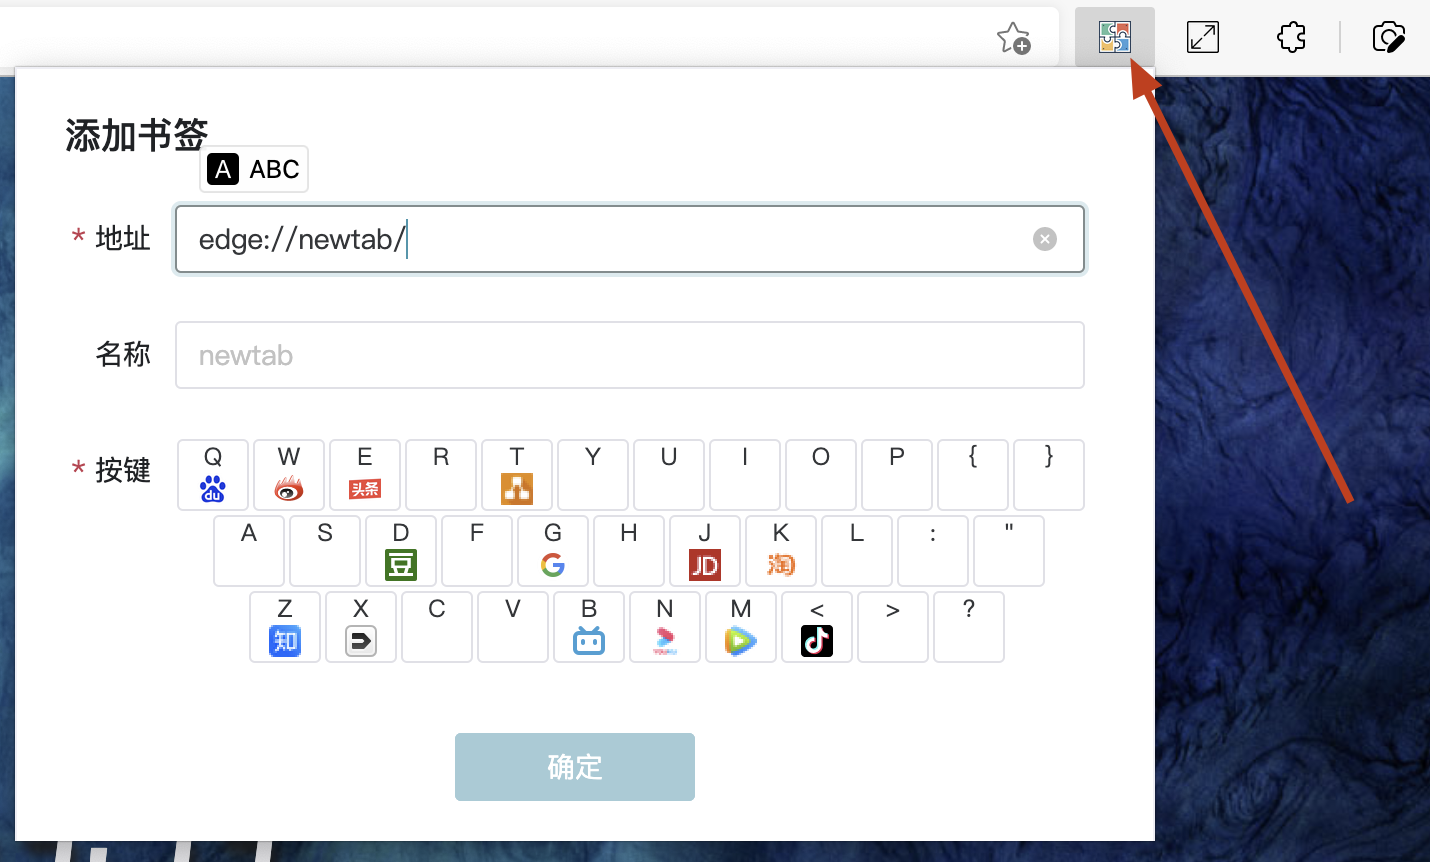
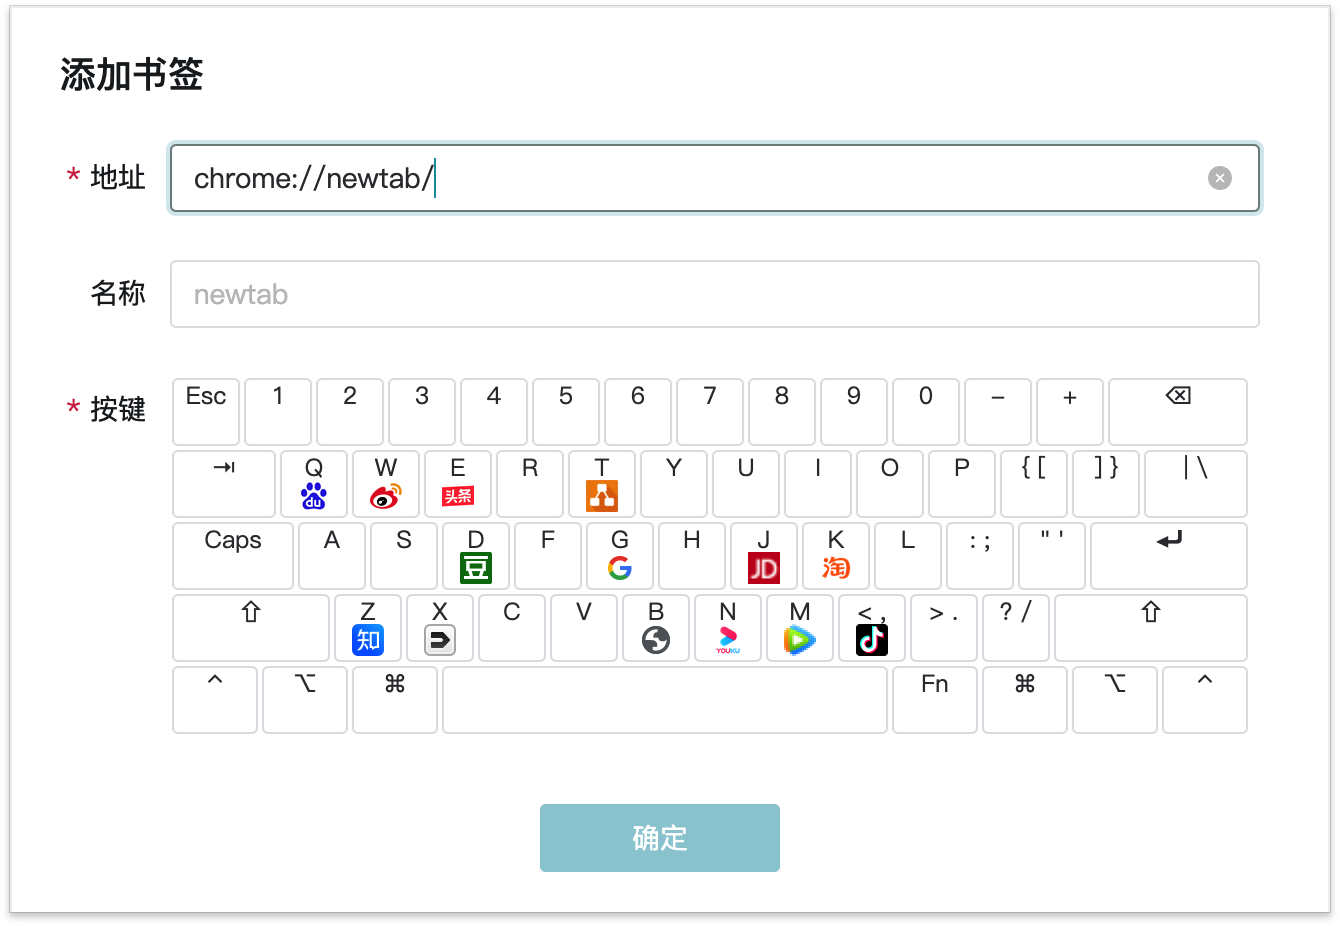
update doc

diff --git a/docs/guide/keyboard-bookmark.md b/docs/guide/keyboard-bookmark.md
@@ -2,13 +2,38 @@
 
 > 以物理键盘形态展示的个性书签，可快速访问对应链接，还可以设置全局快捷键，实现在浏览器任意界面打开书签，效率拉满
 
+> 支持多种键盘配列：HHKB、33、45、47、43、53、57、61、64、67、68、80、84、87
+
 <div style="width: 500px;">
-  <img src="/images/keyboard-bookmark/keyboard-base.png" alt="image">
-  <p style="font-size: 12px; text-align: center;">基础字母按键</p>
-  <img src="/images/keyboard-bookmark/keyboard-chart.png" alt="image">
-  <p style="font-size: 12px; text-align: center;">开启字符按键</p>
-  <img src="/images/keyboard-bookmark/keyboard-all.png" alt="image">
-  <p style="font-size: 12px; text-align: center;">开启字符&数字按键</p>
+  <img src="/images/keyboard-bookmark/keyboard-hhkb.png" alt="image">
+  <p style="font-size: 12px; text-align: center;">HHKB</p>
+  <img src="/images/keyboard-bookmark/keyboard-64.png" alt="image">
+  <p style="font-size: 12px; text-align: center;">64</p>
+  <img src="/images/keyboard-bookmark/keyboard-67.png" alt="image">
+  <p style="font-size: 12px; text-align: center;">67</p>
+  <img src="/images/keyboard-bookmark/keyboard-68.png" alt="image">
+  <p style="font-size: 12px; text-align: center;">68</p>
+  <img src="/images/keyboard-bookmark/keyboard-80.png" alt="image">
+  <p style="font-size: 12px; text-align: center;">80</p>
+  <img src="/images/keyboard-bookmark/keyboard-84.png" alt="image">
+  <p style="font-size: 12px; text-align: center;">84</p>
+  <img src="/images/keyboard-bookmark/keyboard-87.png" alt="image">
+  <p style="font-size: 12px; text-align: center;">87</p>
+</div>
+
+## 键帽
+
+> 支持多种键帽类型（GMK、DSA、FLAT）和颜色的修改，预设部分键帽主题
+
+<div style="width: 500px;">
+  <img src="/images/keyboard-bookmark/keycap-gmk.png" alt="image">
+  <p style="font-size: 12px; text-align: center;">GMK</p>
+  <img src="/images/keyboard-bookmark/keycap-dsa.png" alt="image">
+  <p style="font-size: 12px; text-align: center;">DSA</p>
+  <img src="/images/keyboard-bookmark/keycap-flat.png" alt="image">
+  <p style="font-size: 12px; text-align: center;">FLAT</p>
+  <img src="/images/keyboard-bookmark/keycap-theme.png" alt="image">
+  <p style="font-size: 12px; text-align: center;">键帽主题</p>
 </div>
 
 ## 添加/修改书签
@@ -36,24 +61,3 @@
   <img src="/images/keyboard-bookmark/shortcuts.png" alt="image">
   <p style="font-size: 12px; text-align: center;">自定义全局快捷键</p>
 </div>
-
-## Todo & Doing
-
-支持键盘配列修改:
-
-1. 替换现有的数字键&字符键展示开关
-2. 配列包括
-   1. 30%：包含字母区、字符区
-   2. 40%：包含字母区、字符区、修饰键区
-   3. 60%：包含数字区、字母区、字符区、修饰键区
-   4. 65%：包含数字区、字母区、字符区、修饰键区、部分控制键区
-   5. 75%：包含数字区、字母区、字符区、修饰键区、功能键区、控制键区
-3. 支持键帽颜色修改
-   1. 颜色包含背景色，字体色
-   2. 键帽区分
-      1. 字符键
-      2. 修饰键
-      3. Esc、Enter
-   3. 预设键帽主题
-4. 定位板：展示开关、颜色
-5. 外壳：展示开关、颜色

diff --git a/docs/guide/general.md b/docs/guide/general.md
@@ -4,13 +4,17 @@
 
 鼠标**悬浮在组件上**，点击`鼠标右键`唤出设置菜单，点击“组件设置”，可进行功能、样式的修改
 
-<div style="width: 700px;">
-  <img src="/images/general/right-menu-clock.png" alt="image">
-  <p style="font-size: 12px; text-align: center;">在时钟上点击右键菜单</p>
-  <img src="/images/general/setting-clock.png" alt="image">
-  <p style="font-size: 12px; text-align: center;">设置面板-时钟</p>
+<div style="width: 350px;">
   <img src="/images/getting-started/right-menu-general.png" alt="image">
   <p style="font-size: 12px; text-align: center;">在空白处点击右键菜单</p>
+</div>
+<div style="width: 350px;">
+  <img src="/images/general/right-menu-clock.png" alt="image">
+  <p style="font-size: 12px; text-align: center;">在数字时钟上点击右键菜单</p>
+</div>
+<div style="width: 600px;">
+  <img src="/images/general/setting-clock.png" alt="image">
+  <p style="font-size: 12px; text-align: center;">设置面板-时钟</p>
 </div>
 
 ## 画布模式

diff --git a/docs/guide/getting-started.md b/docs/guide/getting-started.md
@@ -23,7 +23,7 @@
 1. 点击左上角`退出按钮`或按`Esc键`可退出“画布模式”
 2. 通过`鼠标右键菜单`可再次进入“组件设置”、“画布模式”
 
-<div style="width: 700px;">
+<div style="width: 400px;">
   <img src="/images/getting-started/right-menu-general.png" alt="image">
   <p style="font-size: 12px; text-align: center;">在空白处点击右键菜单</p>
 </div>
